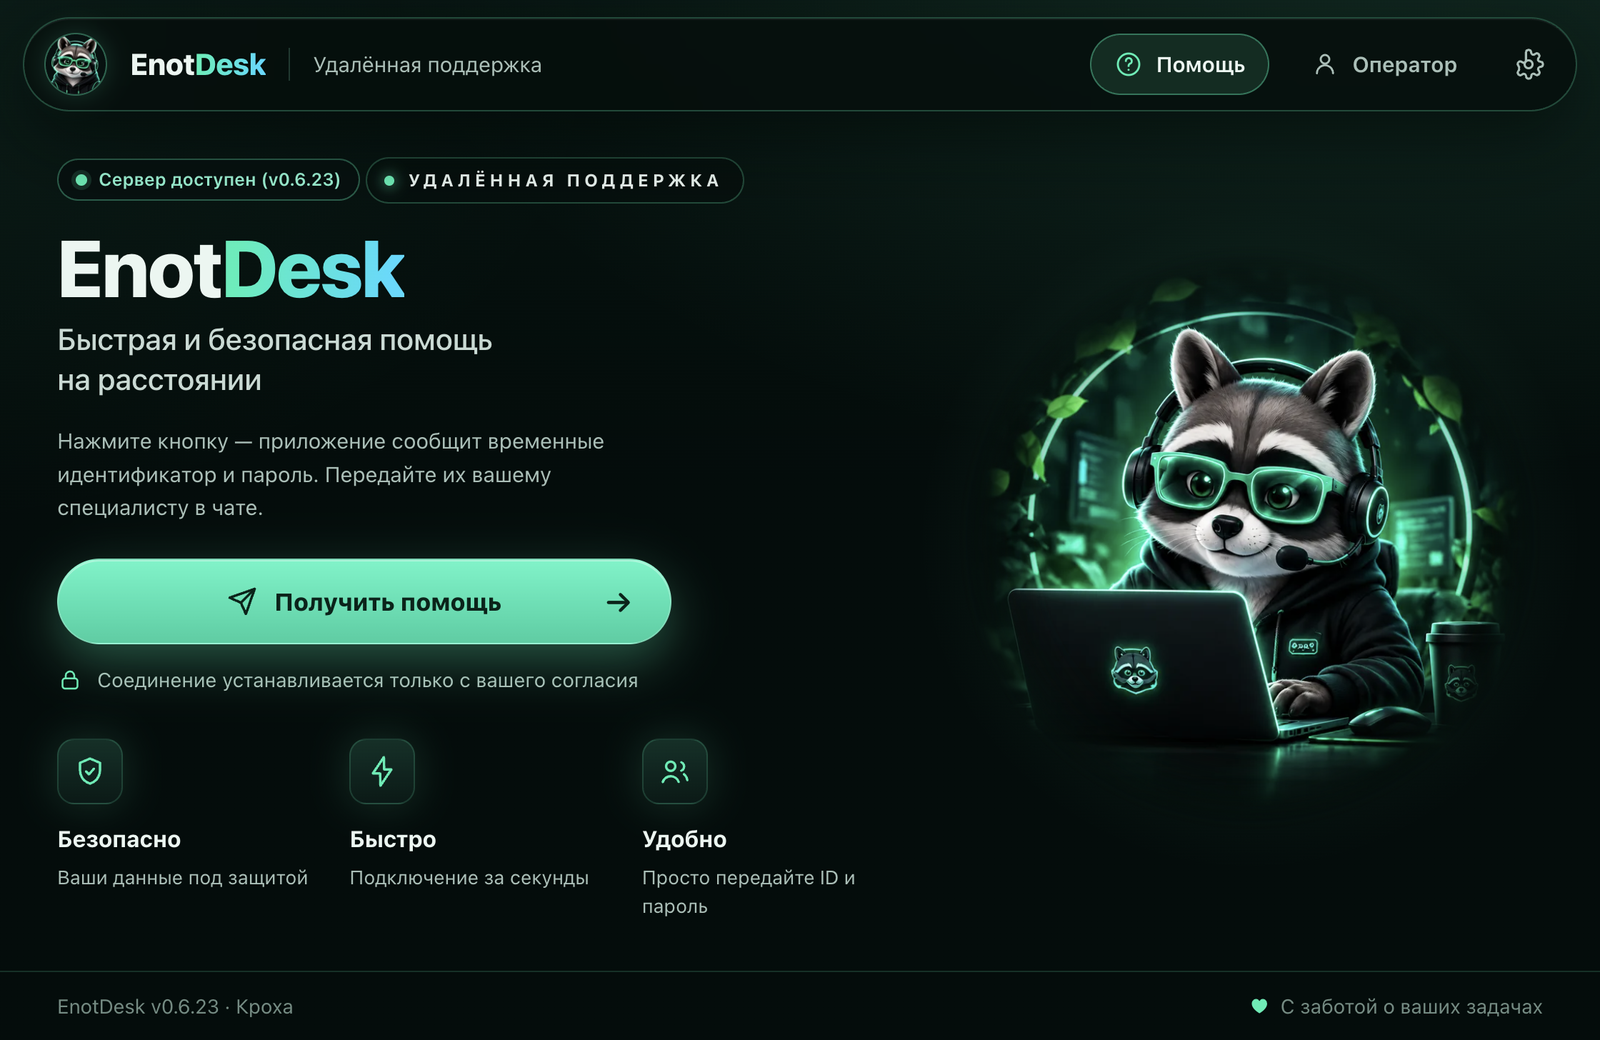
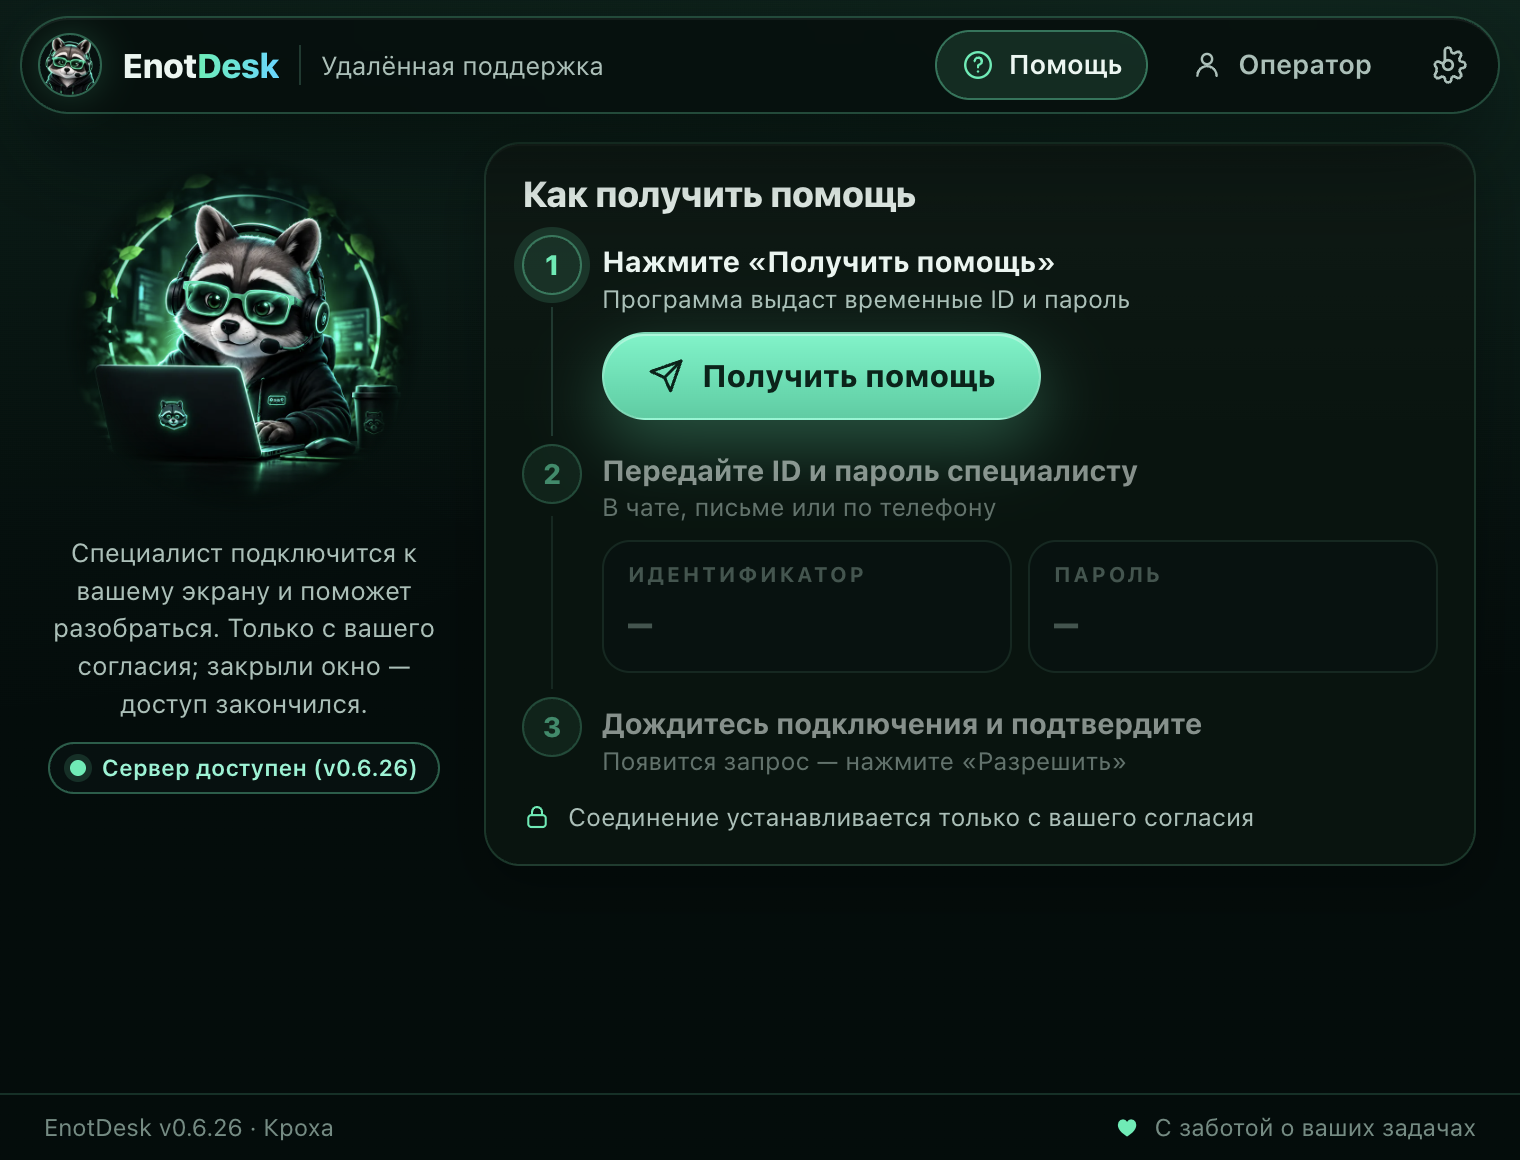
Окно клиента: живой прогон и доводка — отказ захвата, тексты ошибок, уборка
Живой прогон (сервер на временной БД + клиент Electron через DevTools +
оператор по ID/паролю с экрана): 38/38 на ru и en, все состояния в 760×580.

- Отказ ОС в захвате (desktopCapturer бросает «Failed to get sources»):
  вместо сырой IPC-ошибки — текст про разрешение «Запись экрана»; карточка
  «Начать показ экрана» / «Завершить сеанс» встаёт под причиной в правой
  колонке; «Повторить» (новый сеанс, при живом сеансе мёртв) спрятан.
- dom.js errorText(): причина без обёртки «Error invoking remote method…»
  в экранах ошибки, завершения и отказа захвата.
- «ЕнотDesk» → «EnotDesk» в подсказках; мёртвый .term-log из стилей клиента
  (web-оператор держит свою копию); README-снимок — новое окно.

Проверено: npm test 740/0, lint, smoke:local PASS, EDESK_SMOKE OK.

diff --git a/client/renderer/session-media.js b/client/renderer/session-media.js
@@ -2,7 +2,7 @@
 // пауза трансляции, персональные pc операторов, адаптивный битрейт.
 // Операторская сторона — программа оператора с сервера (ADR 0033, этап 3).
 
-import { $, enot, text, setBusyAll } from './dom.js';
+import { $, enot, text, setBusyAll, errorText } from './dom.js';
 import { state } from './state.js';
 import { t } from '../lib/i18n.mjs';
 import { wireHostChannel, resetFileReceivers } from './session-services.js';
@@ -98,9 +98,9 @@ export function removeCaptureCard() {
 function captureFailureUi() {
   removeCaptureCard();
   const card = document.createElement('div');
-  card.className = 'card';
+  card.className = 'card capture-card';
   const btn = document.createElement('button');
-  btn.className = 'btn wide';
+  btn.className = 'cta';
   btn.textContent = t('client.retryCapture');
   btn.addEventListener('click', async () => {
     // сеанс мог закончиться, пока карточка висела — призрачный захват не запускаем
@@ -111,17 +111,40 @@ function captureFailureUi() {
       await startHostRtc();
     } catch { /* ошибка уже показана в статусах сеанса */ }
   });
-  card.appendChild(btn);
-  $('view-client').appendChild(card);
+  // Сеанс жив (согласие дано), поэтому «Повторить» экрана ошибки здесь не к месту
+  // (CSS прячет его при карточке) — выход из сеанса даёт своя кнопка
+  const stop = document.createElement('button');
+  stop.className = 'btn danger-ghost';
+  stop.textContent = t('client.endSession');
+  stop.addEventListener('click', () => { removeCaptureCard(); $('btn-stop').click(); });
+  const row = document.createElement('div');
+  row.className = 'row';
+  row.append(btn, stop);
+  card.appendChild(row);
+  $('client-error').after(card); // правая колонка компактного окна, под текстом причины
   captureCard = card;
   clientShow('error');
+}
+
+// Отказ ОС в захвате: честный текст про разрешение «Запись экрана» + версия и
+// техническая деталь (без префикса IPC-обёртки Electron)
+async function showCaptureDenied(err) {
+  const perms = await enot.permissions();
+  const v = await clientVersion();
+  const detail = err && err.name ? ` (${err.name}: ${errorText(err)})` : '';
+  text($('client-error-text'), (perms.platform === 'darwin' ? t('client.permMac') : t('client.permOther')) + ` [${t('client.captureVersionTag', { v })}]` + detail);
+  clientShow('error');
+  return { stream: null, reason: 'os' };
 }
 
 // Захват основного экрана без вопросов: согласие клиента уже дано — трансляция
 // стартует сразу. reason: 'sel' — нет дисплеев/источника (честный текст уже
 // показан), 'os' — ОС/Chromium отказал в самом захвате (perm-текст + версия).
 async function acquirePrimaryStream() {
-  const sel = await enot.selectPrimaryScreen();
+  let sel;
+  // macOS без «Записи экрана» отказывает уже на списке экранов (desktopCapturer
+  // бросает «Failed to get sources») — это тот же отказ ОС, а не сбой сеанса
+  try { sel = await enot.selectPrimaryScreen(); } catch (err) { return showCaptureDenied(err); }
   if (!sel.ok) {
     text($('client-error-text'), sel.error ?? t('client.sourceUnavailable'));
     clientShow('error');
@@ -130,12 +153,7 @@ async function acquirePrimaryStream() {
   try {
     return { stream: await navigator.mediaDevices.getDisplayMedia({ video: true, audio: false }), reason: null };
   } catch (err) {
-    const perms = await enot.permissions();
-    const v = await clientVersion();
-    const detail = err && err.name ? ` (${err.name}: ${err.message ?? ''})` : '';
-    text($('client-error-text'), (perms.platform === 'darwin' ? t('client.permMac') : t('client.permOther')) + ` [${t('client.captureVersionTag', { v })}]` + detail);
-    clientShow('error');
-    return { stream: null, reason: 'os' };
+    return showCaptureDenied(err);
   }
 }
 

diff --git a/client/renderer/styles.css b/client/renderer/styles.css
@@ -234,6 +234,10 @@ p:last-child { margin-bottom: 0; }
 }
 /* копирование — только когда есть что копировать */
 #view-client:not(:is([data-state="waiting"], [data-state="consent"])) :is(.copy-btn, .copy-row, #join-status) { display: none; }
+/* сбой захвата в живом сеансе: вместо «Повторить» (новый сеанс) — карточка
+   «Начать показ экрана» / «Завершить сеанс» под текстом причины */
+.capture-card { margin: var(--s-3) 0 0; }
+#view-client:has(.capture-card) #btn-retry { display: none; }
 /* завершение и ошибка встают на место шагов; идёт сеанс — экран сеанса на всё окно */
 #view-client:is([data-state="ended"], [data-state="error"]) .flow { display: none; }
 #view-client[data-state="connected"] .help { display: none; }
@@ -458,15 +462,6 @@ input[type="checkbox"] {
 .chat-line.chat-me strong { color: var(--accent); }
 .chat-line.chat-them strong { color: #A6C0B7; }
 .chat .row input { flex: 1; }
-
-/* ---------- терминал машины (web-оператор, R09) ---------- */
-
-.term-log {
-  margin: 0; min-height: 96px; max-height: 260px; overflow-y: auto;
-  background: var(--bg-deep); border: 1px solid var(--border); border-radius: var(--r-md);
-  padding: var(--s-3); font-size: 13px; line-height: 1.45; color: var(--text);
-  white-space: pre-wrap; overflow-wrap: anywhere;
-}
 
 /* ---------- настройки ---------- */
 

diff --git a/client/renderer/views/client-view.js b/client/renderer/views/client-view.js
@@ -1,6 +1,6 @@
 // Представление «Помощь» (клиент): регистрация сеанса, согласие, завершение.
 
-import { $, enot, text, show, hide, setBusy } from '../dom.js';
+import { $, enot, text, show, hide, setBusy, errorText } from '../dom.js';
 import { state } from '../state.js';
 import { t } from '../../lib/i18n.mjs';
 import { cleanupSession } from '../session-media.js';
@@ -49,7 +49,7 @@ async function startHelp() {
     return state.session;
   } catch (e) {
     state.session = null;
-    text($('client-error-text'), e.message);
+    text($('client-error-text'), errorText(e));
     clientShow('error');
     return null;
   } finally {
@@ -108,7 +108,7 @@ async function decide(allow) {
     if (!allow) { cleanupSession(); clientShow('idle'); }
     // при allow ждём approved из сигналинга
   } catch (e) {
-    text($('ended-reason'), e.message);
+    text($('ended-reason'), errorText(e));
     cleanupSession();
     clientShow('ended');
   } finally {

diff --git a/client/renderer/app.js b/client/renderer/app.js
@@ -3,7 +3,7 @@
 // Сигналинг этого окна — только host-роль клиента помощи: программа оператора
 // живёт в отдельном окне со страницей сервера (ADR 0033, этап 3).
 
-import { $, enot, text, show, hide, applyI18n } from './dom.js';
+import { $, enot, text, show, hide, applyI18n, errorText } from './dom.js';
 import { state, endReasonText } from './state.js';
 import { initLocale, getLocale, t } from '../lib/i18n.mjs';
 import { clientShow } from './views/client-view.js';
@@ -82,7 +82,7 @@ enot.onSignal(async (msg) => {
       try { await startHostRtc(); } catch (e) {
         // 'ended' мог прийти во время await: не затираем экран завершения
         if (state.session) {
-          text($('client-error-text'), e.message);
+          text($('client-error-text'), errorText(e));
           clientShow('error');
         }
       }

diff --git a/client/renderer/dom.js b/client/renderer/dom.js
@@ -18,6 +18,11 @@ export function setBusyAll(container, busy) {
   for (const btn of container.querySelectorAll('button')) btn.disabled = busy;
 }
 export function text(el, value) { el.textContent = value; }
+// Текст ошибки для человека: Electron заворачивает отказ IPC-обработчика в
+// «Error invoking remote method 'enot:…': Error: …» — клиенту нужна только причина
+export function errorText(e) {
+  return String(e?.message ?? e ?? '').replace(/^Error invoking remote method '[^']+': (?:\w*Error: )?/, '');
+}
 
 export function roleName(r) {
   const label = t(`role.${r}`);
